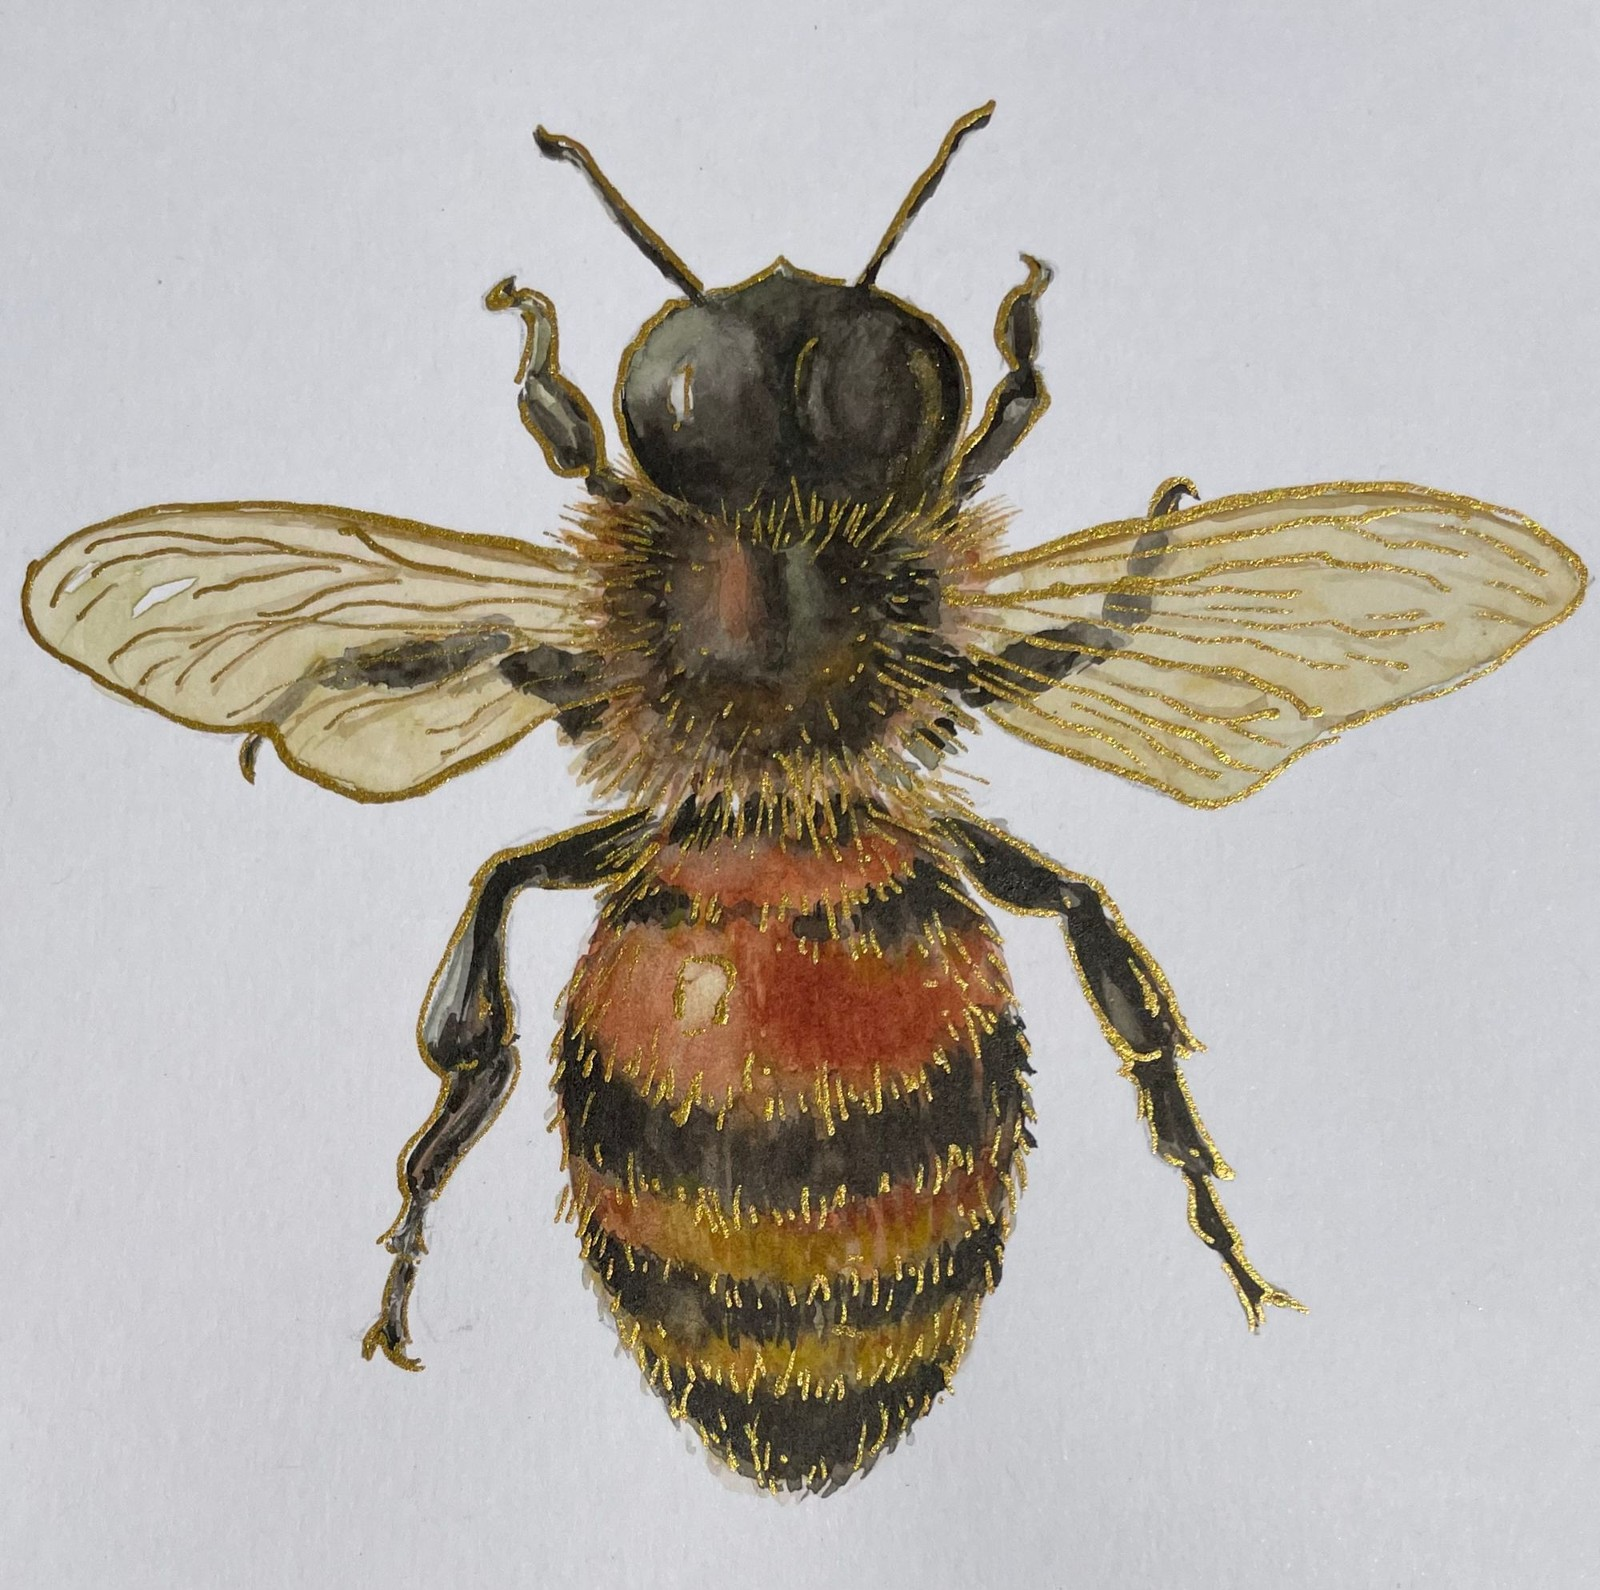
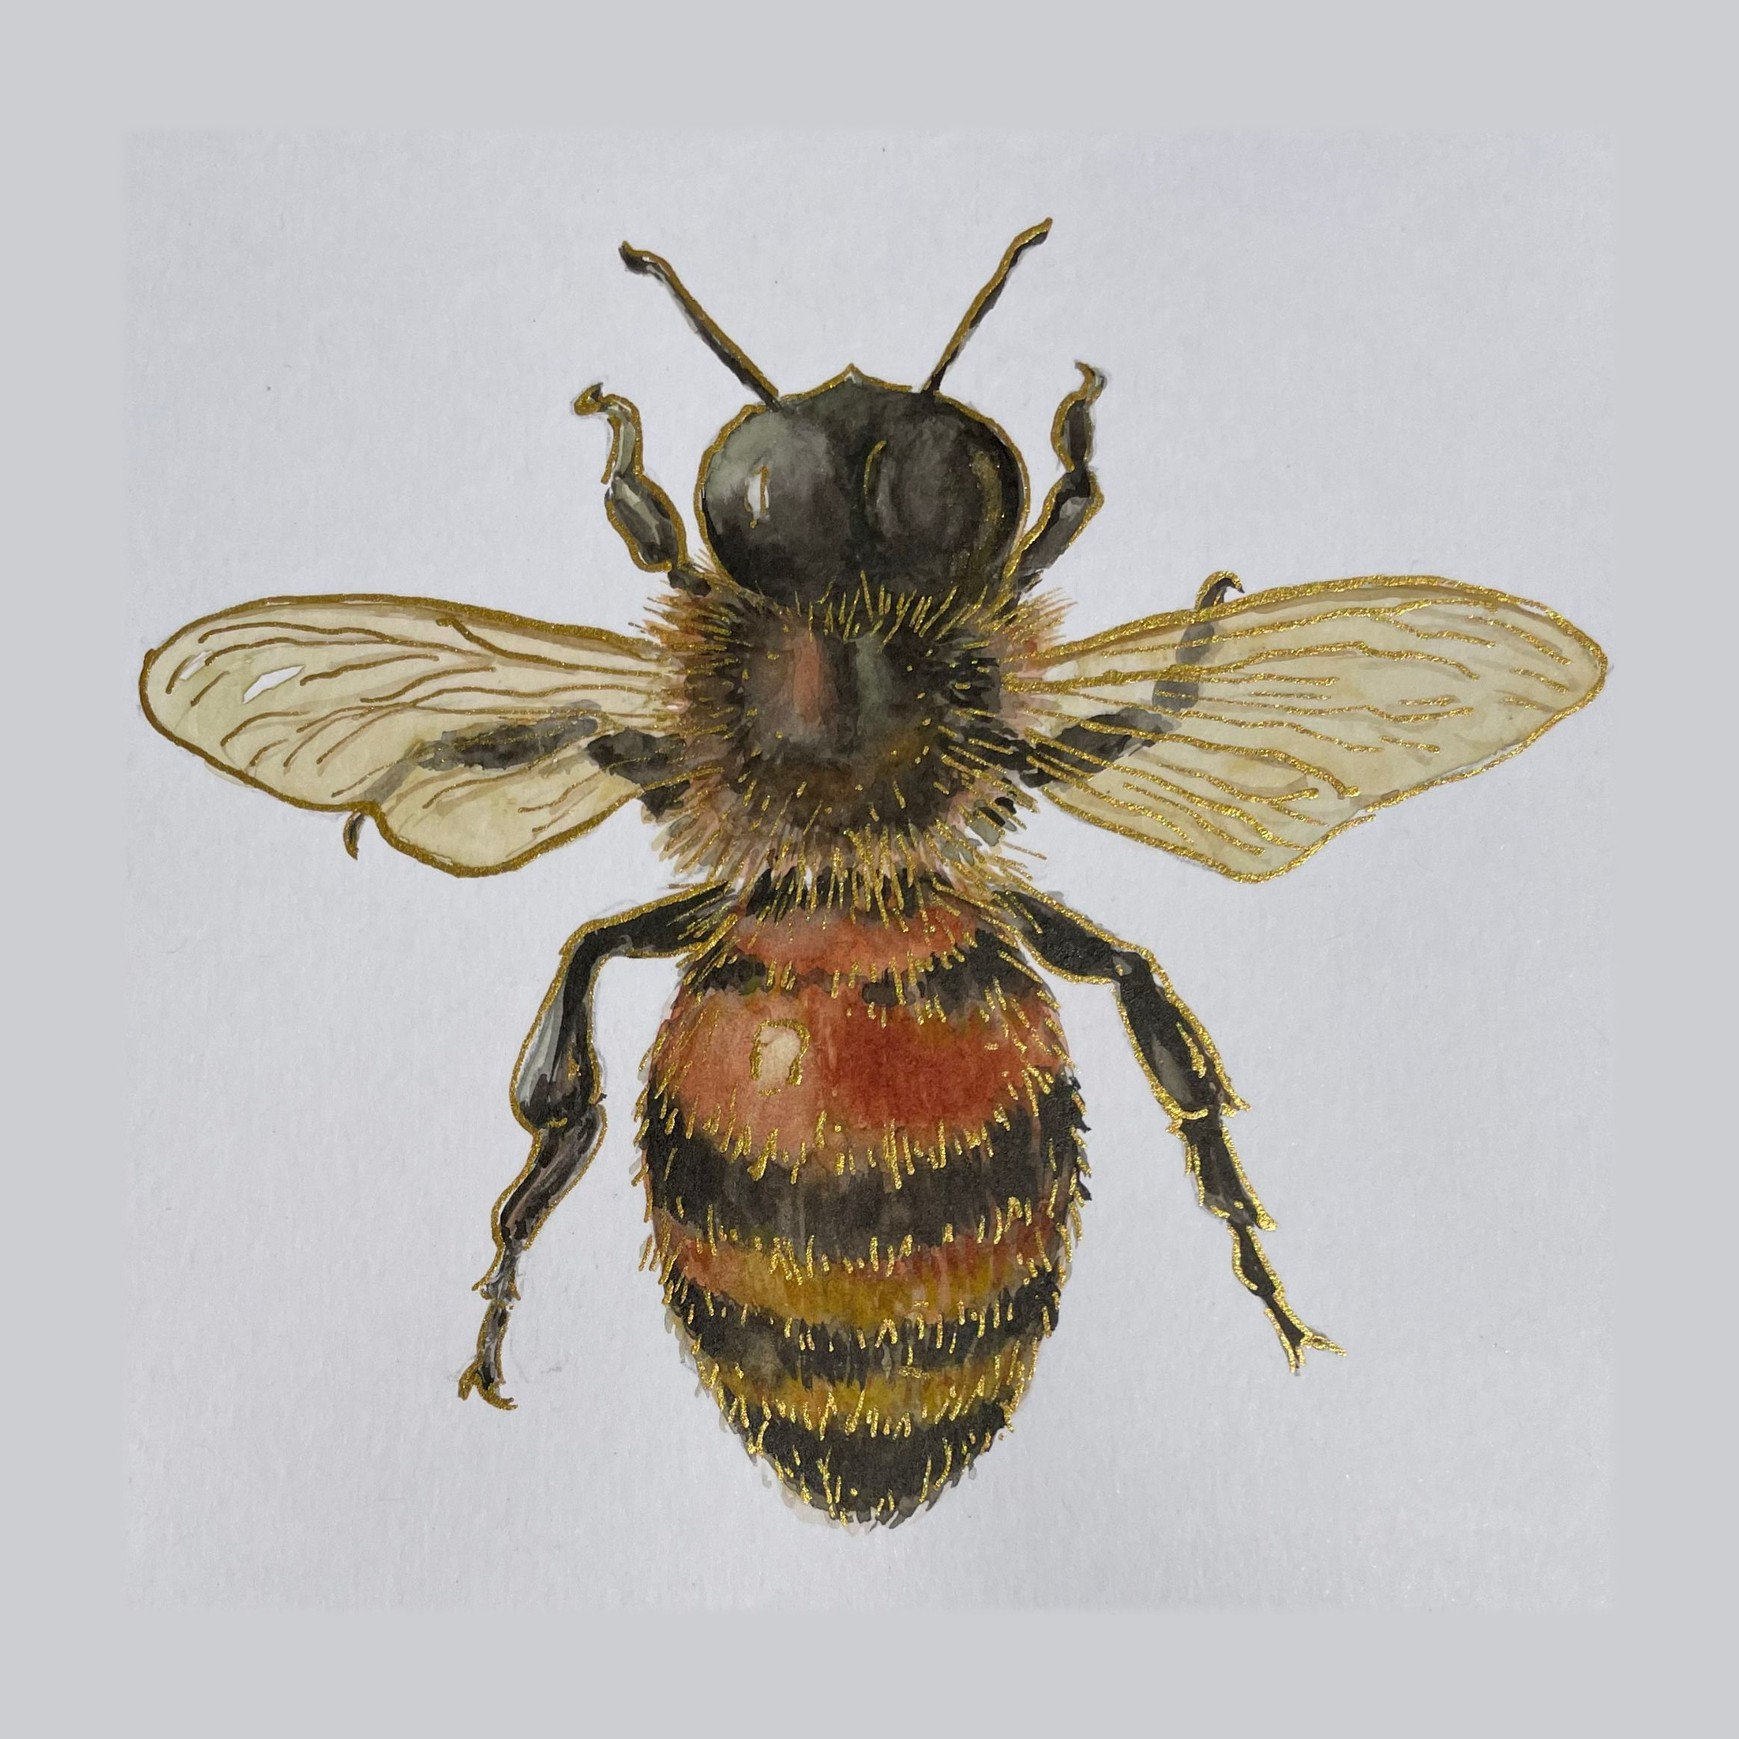
About: Why Winsome?, script accents, all-black text, shorter welcome; whole bee fits its circle
Claude-Session: https://claude.ai/code/session_01CfVqtoW5zsALxSaAEsBk63

Changed region(s): [[0.0, 0.0616, 1.0, 0.9553], [0.5938, 0.0616, 0.625, 0.0925]]

diff --git a/app/routes/about.tsx b/app/routes/about.tsx
@@ -131,24 +131,16 @@ function BrandMission() {
             </h2>
             <div className="space-y-5">
               <p className={`${storyText} font-normal text-[#2D2D2D]`}>
-                At The Winsome Life, we believe in the quiet beauty of putting
-                pen to paper&mdash;where a handwritten note becomes a gesture of
-                grace, connection, and intention.
+                At The Winsome Life, we believe a handwritten note is a gesture
+                of grace, connection and intention.
               </p>
               <p className={`${storyText} font-light text-[#2D2D2D]`}>
-                Inspired by the honeybee&mdash;symbol of community, sweetness,
-                and purpose&mdash;we craft luxury stationery that is gentle,
-                gracious, and beautifully intentional.
-              </p>
-              <p className={`${storyText} font-light text-[#2D2D2D]`}>
-                From the texture of the paper to the richness of the print,
-                each detail reflects our commitment to quality and quiet
-                sophistication&mdash;and we aim to make every interaction as
-                personal and memorable as the note inside.
+                Inspired by the honeybee, a symbol of community, sweetness and
+                purpose, we craft luxury stationery that is beautifully made and
+                deeply personal.
               </p>
               <p className={`${storyText} font-normal italic text-[#2D2D2D]`}>
-                This is The Winsome Life&mdash;thoughtful, timeless, and sweet
-                with purpose.
+                Thoughtful, timeless, and sweet with purpose.
               </p>
             </div>
           </div>
@@ -180,36 +172,33 @@ function WinsomeDefinition() {
           </div>
 
           <div className="max-w-xl mx-auto lg:mx-0 text-center lg:text-left">
-            <p
-              className="text-4xl lg:text-5xl text-[#2D2D2D] mb-3"
-              style={{
-                fontFamily: "'Cormorant Garamond', serif",
-                fontWeight: 500,
-                fontStyle: 'italic',
-              }}
-            >
-              Winsome
-            </p>
-            <p className="font-sans font-medium text-xs tracking-[0.2em] uppercase text-[#2D2D2D] mb-6">
-              Adjective
-            </p>
+            <h2 className={`${sectionTitle} mb-6`}>
+              Why{' '}
+              <span className="inline-block text-[1.3em] leading-none relative top-[0.14em] ml-[0.1em]" style={scriptFont}>
+                Winsome?
+              </span>
+            </h2>
             <div className="space-y-5">
               <p className={`${storyText} font-light text-[#2D2D2D]`}>
-                <span className="font-medium text-[#2D2D2D]">Definition:</span>{' '}
-                Attractive or appealing in appearance or character. Generally
-                pleasing and engaging.
-              </p>
-              <p className={`${storyText} font-light italic text-[#2D2D2D]`}>
-                Synonyms: cheerful, lighthearted, bright, sunny, upbeat
-              </p>
-              <div className="w-12 h-[1px] bg-[#C9A96E]/40 mx-auto lg:mx-0" />
-              <p className={`${storyText} font-light text-[#2D2D2D]`}>
-                The word <em>winsome</em> captures the essence of our
-                brand&mdash;charming, joyful, and quietly uplifting. It reflects
-                the spirit of our stationery, our symbol the honeybee, and the
-                kind of life we aspire to inspire: one filled with grace,
+                We chose the word <em>winsome</em> because it captures the
+                essence of our brand: charming, joyful, and quietly uplifting. It
+                reflects the spirit of our stationery, our symbol the honeybee,
+                and the kind of life we hope to inspire, one filled with grace,
                 warmth, and meaningful connection.
               </p>
+              <div className="border-l-2 border-[#C9A96E] pl-5 text-left mx-auto max-w-md lg:mx-0">
+                <p className={`${storyText} text-[#2D2D2D]`}>
+                  <span className="font-serif italic text-2xl">winsome</span>{' '}
+                  <span className="font-sans text-xs tracking-[0.2em] uppercase">adjective</span>
+                </p>
+                <p className={`${storyText} font-light text-[#2D2D2D] mt-1`}>
+                  Attractive or appealing in appearance or character. Generally
+                  pleasing and engaging.
+                </p>
+                <p className={`${storyText} font-light italic text-[#2D2D2D] mt-1`}>
+                  Cheerful, lighthearted, bright, sunny, upbeat.
+                </p>
+              </div>
             </div>
           </div>
         </motion.div>
@@ -250,7 +239,7 @@ function HoneybeeStory() {
             </p>
             <h2 className="font-serif font-medium text-3xl md:text-4xl text-[#2D2D2D] mb-8 leading-tight">
               The Honeybee&mdash;{' '}
-              <span className="text-[#2D2D2D]" style={{fontStyle: 'italic'}}>
+              <span className="inline-block text-[1.3em] leading-none relative top-[0.14em] ml-[0.1em]" style={scriptFont}>
                 sweet with intention
               </span>
             </h2>
@@ -533,9 +522,12 @@ function ShopCTA() {
         <div className="max-w-2xl mx-auto">
           <div className="w-16 h-[1px] bg-gradient-to-r from-transparent via-[#C9A96E] to-transparent mx-auto mb-8" />
           <h2 className="font-serif font-medium text-3xl md:text-4xl text-[#2D2D2D] mb-4">
-            Looking for your next gift or personalized stationery?
+            Looking for your next{' '}
+            <span className="inline-block text-[1.3em] leading-none relative top-[0.14em] ml-[0.1em]" style={scriptFont}>
+              gift?
+            </span>
           </h2>
-          <p className="font-sans font-light text-base text-[#2D2D2D]/75 leading-relaxed mb-8">
+          <p className={`${storyText} font-light text-[#2D2D2D] mb-8`}>
             Browse our collections and discover stationery that reflects your
             unique style&mdash;thoughtful, timeless, and beautifully personal.
           </p>
@@ -549,7 +541,7 @@ function ShopCTA() {
           </Link>
           <Link
             to="/collections/bestsellers"
-            className="font-sans font-medium inline-flex items-center justify-center px-8 py-3.5 border border-[#C9A96E] text-[#C9A96E] text-sm tracking-[0.15em] uppercase hover:bg-[#C9A96E] hover:text-white transition-colors duration-300"
+            className="font-sans font-medium inline-flex items-center justify-center px-8 py-3.5 border border-[#2D2D2D] text-[#2D2D2D] text-sm tracking-[0.15em] uppercase hover:bg-[#2D2D2D] hover:text-white transition-colors duration-300"
           >
             Bestsellers
           </Link>
